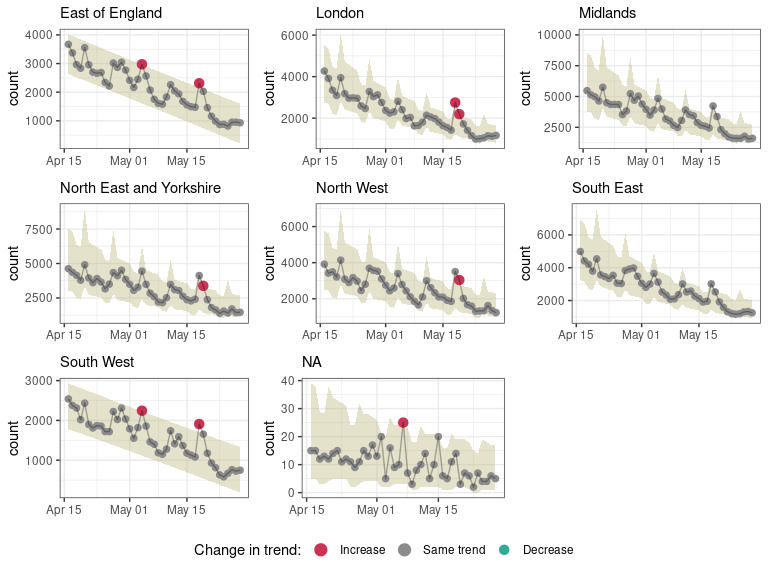
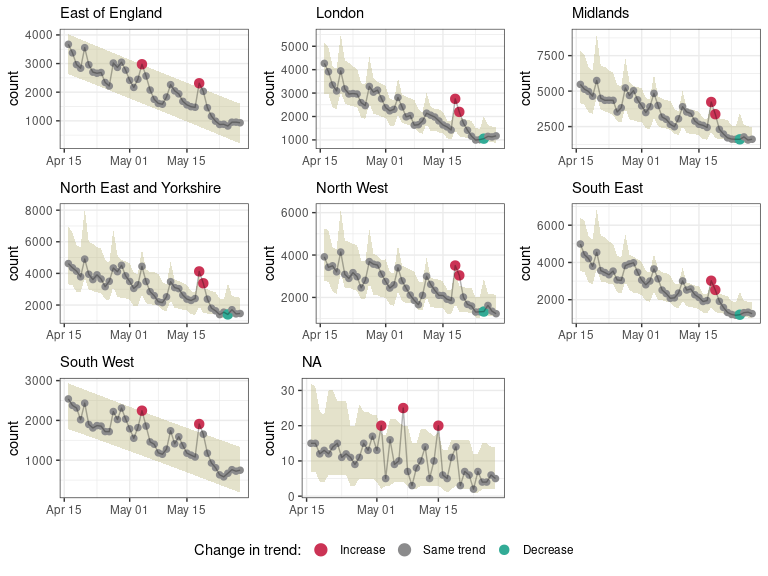
update README

diff --git a/README.md b/README.md
@@ -119,7 +119,7 @@ counts_overall <- pathways_recent %>%
 #> `summarise()` has grouped output by 'date', 'day'. You can override using the `.groups` argument.
 
 # results with automated detection of 'k'
-res <- asmodee(counts_overall, models, method = evaluate_aic, simulate_pi = TRUE)
+res <- asmodee(counts_overall, models, date_index = "date", method = evaluate_aic, simulate_pi = TRUE)
 res
 #> $k
 #> [1] 0
@@ -139,53 +139,141 @@ res
 #> Residual Deviance: 43.18     AIC: 806.4
 #> 
 #> $predict
-#> function (newdata, alpha = 0.05, add_pi = TRUE, uncertain = TRUE) 
+#> function (newdata, alpha = 0.05, add_pi = TRUE, simulate_pi = FALSE, 
+#>     uncertain = TRUE) 
 #> {
 #>     if (missing(newdata)) {
 #>         newdata <- data[all.vars(formula(model))]
 #>     }
 #>     result <- add_confidence_interval(model, newdata, alpha)
 #>     if (add_pi) {
-#>         result <- add_prediction_interval(model, result, alpha, 
-#>             uncertain)
+#>         if (simulate_pi) {
+#>             result <- add_prediction_interval(model, result, 
+#>                 alpha, simulate_pi, uncertain)
+#>         }
+#>         else {
+#>             result <- add_prediction_interval(model, result, 
+#>                 alpha, simulate_pi, uncertain)
+#>         }
 #>     }
 #>     result
 #> }
-#> <bytecode: 0x7f8725541ee0>
-#> <environment: 0x7f8729924590>
+#> <bytecode: 0x558208669248>
+#> <environment: 0x55820cec60c0>
 #> 
 #> attr(,"class")
 #> [1] "trending_model_fit" "list"              
 #> 
 #> $n_outliers
-#> [1] 1
+#> [1] 3
 #> 
 #> $n_outliers_train
-#> [1] 1
+#> [1] 3
 #> 
 #> $n_outliers_recent
 #> [1] 0
 #> 
 #> $p_value
-#> [1] 0.6404551
+#> [1] 0.1665987
 #> 
 #> $results
-#> [90m# A tibble: 43 x 11[39m
-#> [90m# Groups:   date, day [43][39m
-#>    date         day weekday count estimate lower_ci upper_ci lower_pi upper_pi
-#>    [3m[90m<date>[39m[23m     [3m[90m<int>[39m[23m [3m[90m<fct>[39m[23m   [3m[90m<int>[39m[23m    [3m[90m<dbl>[39m[23m    [3m[90m<dbl>[39m[23m    [3m[90m<dbl>[39m[23m    [3m[90m<dbl>[39m[23m    [3m[90m<dbl>[39m[23m
-#> [90m 1[39m 2020-04-16    29 rest_o… [4m2[24m[4m9[24m497   [4m2[24m[4m9[24m866.   [4m2[24m[4m6[24m976.   [4m3[24m[4m3[24m066.    [4m1[24m[4m9[24m529    [4m4[24m[4m3[24m643
-#> [90m 2[39m 2020-04-17    30 rest_o… [4m2[24m[4m7[24m007   [4m2[24m[4m9[24m072.   [4m2[24m[4m6[24m337.   [4m3[24m[4m2[24m091.    [4m1[24m[4m9[24m067    [4m4[24m[4m2[24m355
-#> [90m 3[39m 2020-04-18    31 weekend [4m2[24m[4m5[24m453   [4m2[24m[4m4[24m835.   [4m2[24m[4m2[24m200.   [4m2[24m[4m7[24m783.    [4m1[24m[4m6[24m071    [4m3[24m[4m6[24m671
-#> [90m 4[39m 2020-04-19    32 weekend [4m2[24m[4m3[24m387   [4m2[24m[4m4[24m175.   [4m2[24m[4m1[24m659.   [4m2[24m[4m6[24m983.    [4m1[24m[4m5[24m679    [4m3[24m[4m5[24m615
-#> [90m 5[39m 2020-04-20    33 monday  [4m2[24m[4m9[24m287   [4m3[24m[4m2[24m913.   [4m2[24m[4m8[24m548.   [4m3[24m[4m7[24m944.    [4m2[24m[4m0[24m668    [4m5[24m[4m0[24m079
-#> [90m 6[39m 2020-04-21    34 rest_o… [4m2[24m[4m3[24m134   [4m2[24m[4m6[24m101.   [4m2[24m[4m3[24m915.   [4m2[24m[4m8[24m486.    [4m1[24m[4m7[24m313    [4m3[24m[4m7[24m599
-#> [90m 7[39m 2020-04-22    35 rest_o… [4m2[24m[4m1[24m803   [4m2[24m[4m5[24m407.   [4m2[24m[4m3[24m341.   [4m2[24m[4m7[24m656.    [4m1[24m[4m6[24m897    [4m3[24m[4m6[24m502
-#> [90m 8[39m 2020-04-23    36 rest_o… [4m2[24m[4m2[24m298   [4m2[24m[4m4[24m731.   [4m2[24m[4m2[24m779.   [4m2[24m[4m6[24m851.    [4m1[24m[4m6[24m490    [4m3[24m[4m5[24m441
-#> [90m 9[39m 2020-04-24    37 rest_o… [4m2[24m[4m2[24m027   [4m2[24m[4m4[24m074.   [4m2[24m[4m2[24m227.   [4m2[24m[4m6[24m073.    [4m1[24m[4m6[24m091    [4m3[24m[4m4[24m414
-#> [90m10[39m 2020-04-25    38 weekend [4m1[24m[4m8[24m861   [4m2[24m[4m0[24m565.   [4m1[24m[4m8[24m640.   [4m2[24m[4m2[24m689.    [4m1[24m[4m3[24m493    [4m2[24m[4m9[24m949
-#> [90m# … with 33 more rows, and 2 more variables: outlier [3m[90m<lgl>[90m[23m,[39m
-#> [90m#   classification [3m[90m<fct>[90m[23m[39m
+#>          date day      weekday count training  estimate  lower_ci upper_ci
+#> 1  2020-04-16  29 rest_of_week 29497     TRUE 29866.112 26975.633 33066.31
+#> 2  2020-04-17  30 rest_of_week 27007     TRUE 29071.949 26337.005 32090.90
+#> 3  2020-04-18  31      weekend 25453     TRUE 24835.238 22200.222 27783.01
+#> 4  2020-04-19  32      weekend 23387     TRUE 24174.851 21658.947 26983.00
+#> 5  2020-04-20  33       monday 29287     TRUE 32912.569 28548.286 37944.04
+#> 6  2020-04-21  34 rest_of_week 23134     TRUE 26100.933 23915.207 28486.42
+#> 7  2020-04-22  35 rest_of_week 21803     TRUE 25406.890 23341.012 27655.62
+#> 8  2020-04-23  36 rest_of_week 22298     TRUE 24731.302 22778.559 26851.45
+#> 9  2020-04-24  37 rest_of_week 22027     TRUE 24073.678 22227.471 26073.23
+#> 10 2020-04-25  38      weekend 18861     TRUE 20565.374 18640.176 22689.41
+#> 11 2020-04-26  39      weekend 19569     TRUE 20018.526 18172.629 22051.92
+#> 12 2020-04-27  40       monday 25628     TRUE 27253.989 23884.320 31099.06
+#> 13 2020-04-28  41 rest_of_week 24236     TRUE 21613.462 20129.447 23206.88
+#> 14 2020-04-29  42 rest_of_week 25552     TRUE 21038.744 19629.754 22548.87
+#> 15 2020-04-30  43 rest_of_week 22387     TRUE 20479.308 19139.321 21913.11
+#> 16 2020-05-01  44 rest_of_week 19852     TRUE 19934.748 18657.846 21299.04
+#> 17 2020-05-02  45      weekend 17761     TRUE 17029.618 15559.416 18638.74
+#> 18 2020-05-03  46      weekend 19349     TRUE 16576.788 15154.130 18133.00
+#> 19 2020-05-04  47       monday 24385     TRUE 22568.275 19886.020 25612.32
+#> 20 2020-05-05  48 rest_of_week 20218     TRUE 17897.510 16816.496 19048.02
+#> 21 2020-05-06  49 rest_of_week 16498     TRUE 17421.602 16376.348 18533.57
+#> 22 2020-05-07  50 rest_of_week 15257     TRUE 16958.349 15944.040 18037.18
+#> 23 2020-05-08  51 rest_of_week 13230     TRUE 16507.414 15519.528 17558.18
+#> 24 2020-05-09  52      weekend 12780     TRUE 14101.756 12891.373 15425.78
+#> 25 2020-05-10  53      weekend 14946     TRUE 13726.780 12541.540 15024.03
+#> 26 2020-05-11  54       monday 19542     TRUE 18688.165 16466.954 21208.99
+#> 27 2020-05-12  55 rest_of_week 17299     TRUE 14820.434 13899.746 15802.11
+#> 28 2020-05-13  56 rest_of_week 16891     TRUE 14426.347 13514.648 15399.55
+#> 29 2020-05-14  57 rest_of_week 14750     TRUE 14042.740 13137.637 15010.20
+#> 30 2020-05-15  58 rest_of_week 13638     TRUE 13669.333 12768.780 14633.40
+#> 31 2020-05-16  59      weekend 12874     TRUE 11677.275 10600.167 12863.83
+#> 32 2020-05-17  60      weekend 12635     TRUE 11366.767 10302.312 12541.20
+#> 33 2020-05-18  61       monday 21868     TRUE 15475.153 13561.555 17658.77
+#> 34 2020-05-19  62 rest_of_week 18207     TRUE 12272.392 11375.758 13239.70
+#> 35 2020-05-20  63 rest_of_week 12966     TRUE 11946.060 11048.148 12916.95
+#> 36 2020-05-21  64 rest_of_week 10543     TRUE 11628.405 10728.741 12603.51
+#> 37 2020-05-22  65 rest_of_week  9212     TRUE 11319.197 10417.477 12298.97
+#> 38 2020-05-23  66      weekend  8030     TRUE  9669.629  8662.868 10793.39
+#> 39 2020-05-24  67      weekend  8123     TRUE  9412.506  8413.406 10530.25
+#> 40 2020-05-25  68       monday  8079     TRUE 12814.547 11114.981 14773.99
+#> 41 2020-05-26  69 rest_of_week  9275     TRUE 10162.428  9252.027 11162.41
+#> 42 2020-05-27  70 rest_of_week  8486     TRUE  9892.202  8979.999 10897.07
+#> 43 2020-05-28  71 rest_of_week  8411     TRUE  9629.161  8715.443 10638.67
+#>    lower_pi upper_pi outlier classification
+#> 1     21380    39870   FALSE         normal
+#> 2     20281    38962   FALSE         normal
+#> 3     17528    33340   FALSE         normal
+#> 4     16787    32210   FALSE         normal
+#> 5     23047    45049   FALSE         normal
+#> 6     18602    34825   FALSE         normal
+#> 7     18181    33730   FALSE         normal
+#> 8     17596    32882   FALSE         normal
+#> 9     16949    32103   FALSE         normal
+#> 10    14664    27664   FALSE         normal
+#> 11    14380    27497   FALSE         normal
+#> 12    19202    36696   FALSE         normal
+#> 13    15668    28384   FALSE         normal
+#> 14    15057    27853   FALSE         normal
+#> 15    14873    27362   FALSE         normal
+#> 16    14514    26276   FALSE         normal
+#> 17    12066    22678   FALSE         normal
+#> 18    11740    21774   FALSE         normal
+#> 19    15551    30842   FALSE         normal
+#> 20    12929    23522   FALSE         normal
+#> 21    12542    23240   FALSE         normal
+#> 22    12384    22194   FALSE         normal
+#> 23    11984    22068   FALSE         normal
+#> 24     9872    18757   FALSE         normal
+#> 25     9712    18388   FALSE         normal
+#> 26    13064    25370   FALSE         normal
+#> 27    10670    19710   FALSE         normal
+#> 28    10513    18976   FALSE         normal
+#> 29    10062    18662   FALSE         normal
+#> 30     9941    18092   FALSE         normal
+#> 31     8255    15604   FALSE         normal
+#> 32     8052    15208   FALSE         normal
+#> 33    10868    21088    TRUE       increase
+#> 34     8715    16489    TRUE       increase
+#> 35     8552    16001   FALSE         normal
+#> 36     8431    15421   FALSE         normal
+#> 37     8275    15318   FALSE         normal
+#> 38     6884    12936   FALSE         normal
+#> 39     6823    12887   FALSE         normal
+#> 40     8974    17427    TRUE       decrease
+#> 41     7258    13496   FALSE         normal
+#> 42     7056    13235   FALSE         normal
+#> 43     6912    12973   FALSE         normal
+#> 
+#> $date_index
+#> [1] "date"
+#> 
+#> $last_training_date
+#> [1] "2020-05-28"
+#> 
+#> $first_testing_date
+#> NULL
 #> 
 #> attr(,"class")
 #> [1] "trendbreaker" "list"
@@ -213,7 +301,7 @@ lookup <- select(pathways_recent, date, day, weekday) %>%  distinct()
 dat <-
   pathways_recent %>%
   incidence(date_index = date, groups = nhs_region, count = count) %>%
-  left_join(lookup, by = "date")
+  left_join(lookup, by = c("date_index" = "date"))
 
 # define candidate models
 models <- list(
@@ -226,7 +314,7 @@ models <- list(
 # analyses on all data
 res <- asmodee(dat, models, method = evaluate_aic)
 
-plot(res, "date")
+plot(res)
 ```
 
 <img src="man/figures/README-incidence2-1.png" style="display: block; margin: auto;" />
